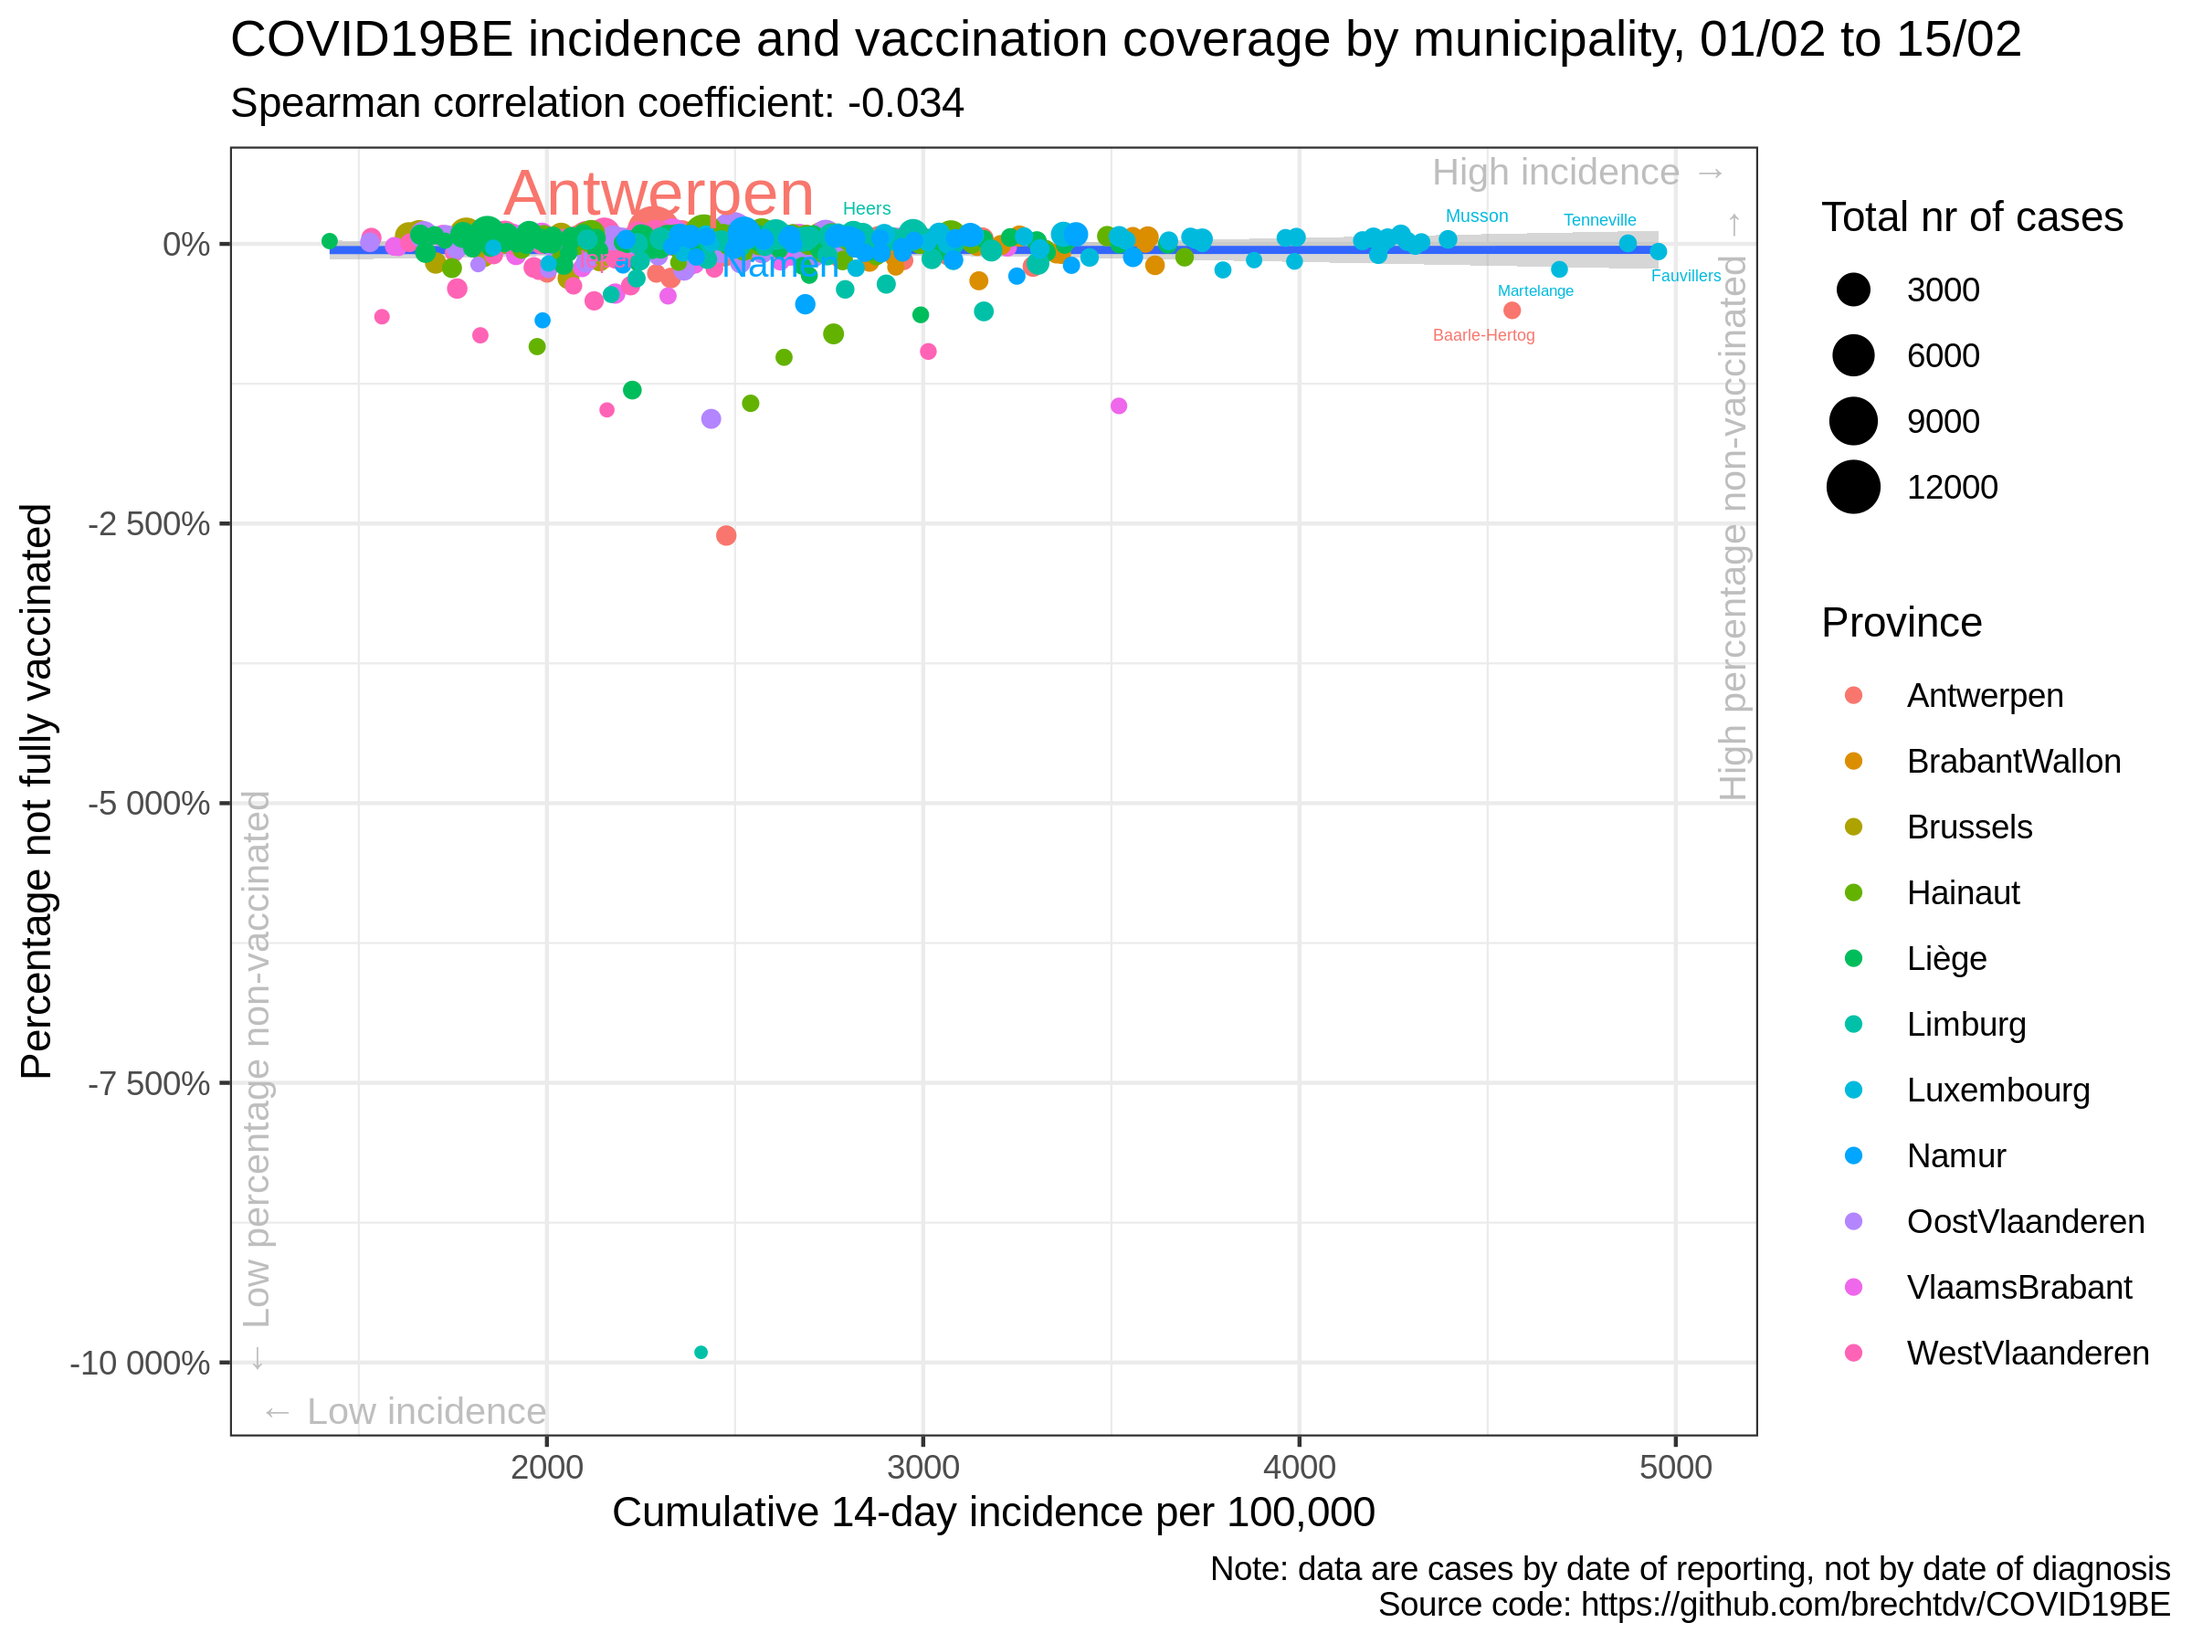
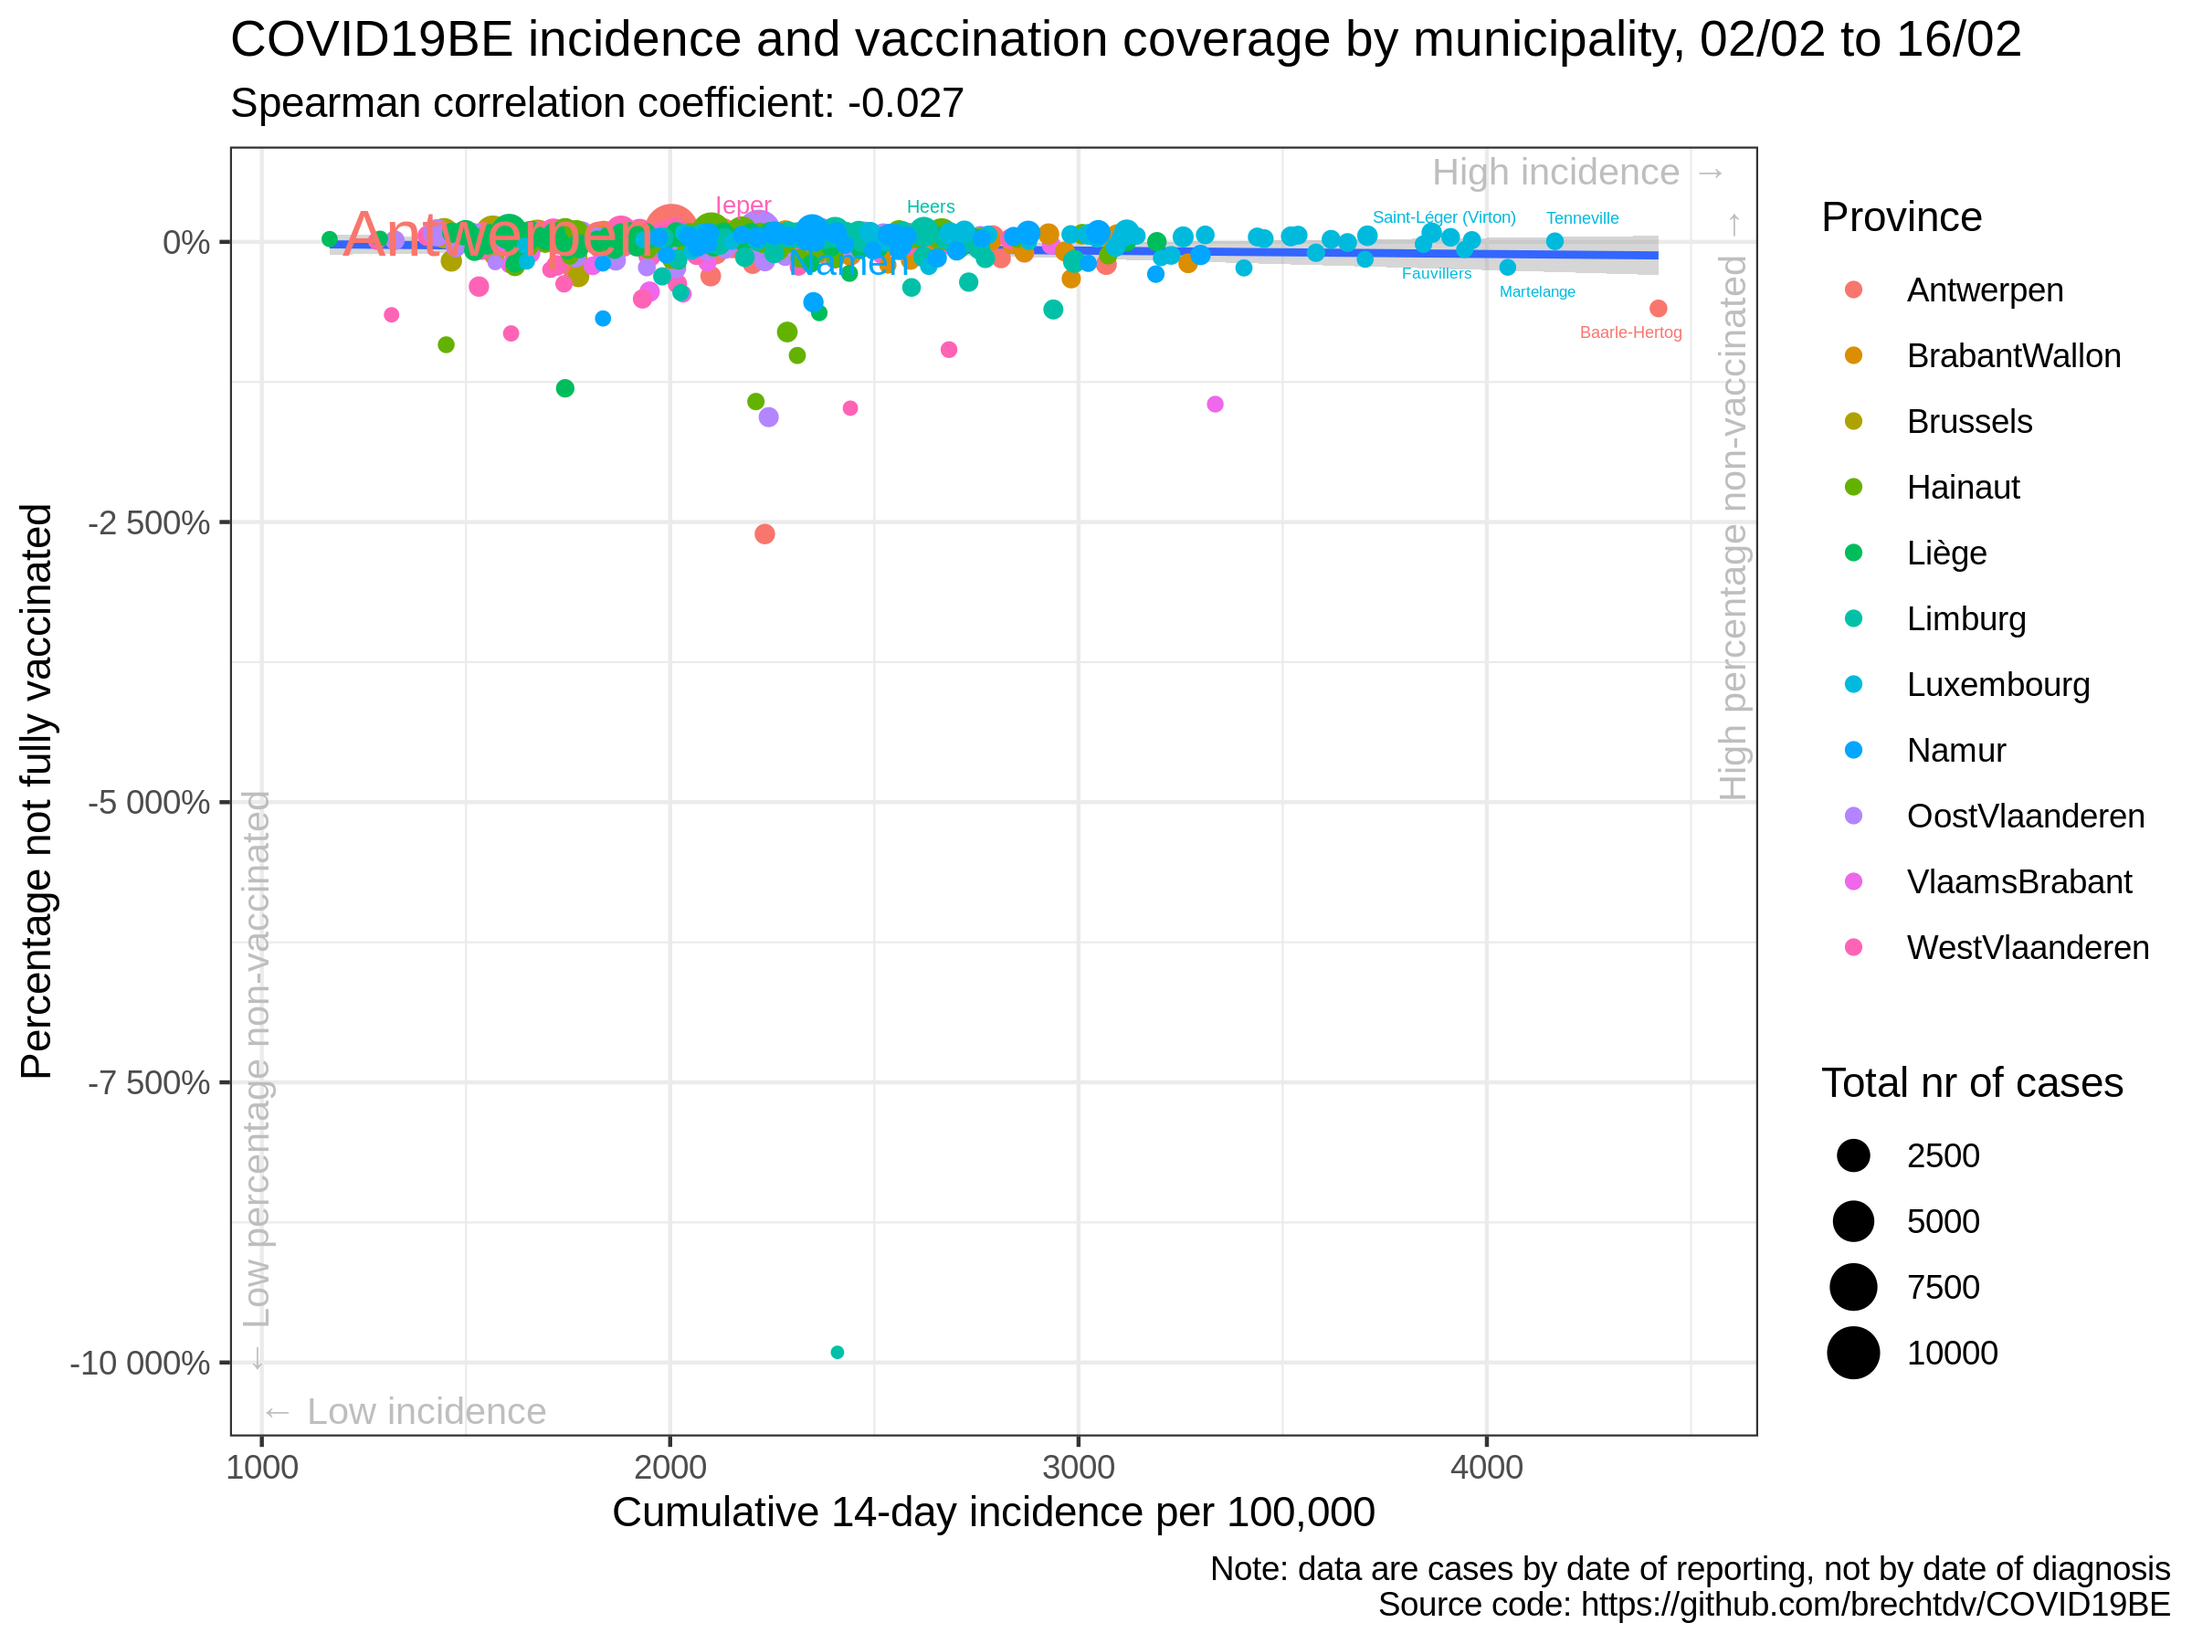
update situation

diff --git a/vaccination/README.md b/vaccination/README.md
@@ -17,35 +17,35 @@
 
 |                | estimate.rho | p.value |
 | :------------- | -----------: | ------: |
-| Antwerpen      |      \-0.049 |   0.691 |
-| BrabantWallon  |      \-0.441 |   0.022 |
-| Brussels       |      \-0.319 |   0.182 |
-| Hainaut        |        0.017 |   0.887 |
-| Liège          |      \-0.172 |   0.117 |
-| Limburg        |        0.015 |   0.923 |
-| Luxembourg     |      \-0.132 |   0.392 |
-| Namur          |      \-0.062 |   0.713 |
-| OostVlaanderen |        0.098 |   0.457 |
-| VlaamsBrabant  |      \-0.183 |   0.144 |
-| WestVlaanderen |        0.133 |   0.295 |
-| Belgium        |      \-0.034 |   0.419 |
+| Antwerpen      |      \-0.046 |   0.709 |
+| BrabantWallon  |      \-0.454 |   0.018 |
+| Brussels       |      \-0.284 |   0.237 |
+| Hainaut        |        0.068 |   0.581 |
+| Liège          |      \-0.117 |   0.289 |
+| Limburg        |      \-0.039 |   0.806 |
+| Luxembourg     |      \-0.136 |   0.376 |
+| Namur          |      \-0.009 |   0.960 |
+| OostVlaanderen |        0.106 |   0.418 |
+| VlaamsBrabant  |      \-0.149 |   0.235 |
+| WestVlaanderen |        0.094 |   0.457 |
+| Belgium        |      \-0.027 |   0.521 |
 
 ### Correlation cumulative incidence vs booster rate
 
 |                | estimate.rho | p.value |
 | :------------- | -----------: | ------: |
-| Antwerpen      |      \-0.053 |   0.665 |
-| BrabantWallon  |      \-0.448 |   0.020 |
-| Brussels       |      \-0.368 |   0.121 |
-| Hainaut        |        0.019 |   0.875 |
-| Liège          |      \-0.167 |   0.129 |
-| Limburg        |      \-0.006 |   0.971 |
-| Luxembourg     |      \-0.136 |   0.378 |
-| Namur          |      \-0.058 |   0.734 |
-| OostVlaanderen |        0.095 |   0.467 |
-| VlaamsBrabant  |      \-0.211 |   0.092 |
-| WestVlaanderen |        0.128 |   0.313 |
-| Belgium        |      \-0.027 |   0.513 |
+| Antwerpen      |      \-0.051 |   0.675 |
+| BrabantWallon  |      \-0.460 |   0.017 |
+| Brussels       |      \-0.323 |   0.177 |
+| Hainaut        |        0.073 |   0.552 |
+| Liège          |      \-0.114 |   0.303 |
+| Limburg        |      \-0.059 |   0.711 |
+| Luxembourg     |      \-0.137 |   0.372 |
+| Namur          |        0.002 |   0.991 |
+| OostVlaanderen |        0.104 |   0.430 |
+| VlaamsBrabant  |      \-0.182 |   0.146 |
+| WestVlaanderen |        0.089 |   0.486 |
+| Belgium        |      \-0.025 |   0.542 |
 
 ### Data source
 
